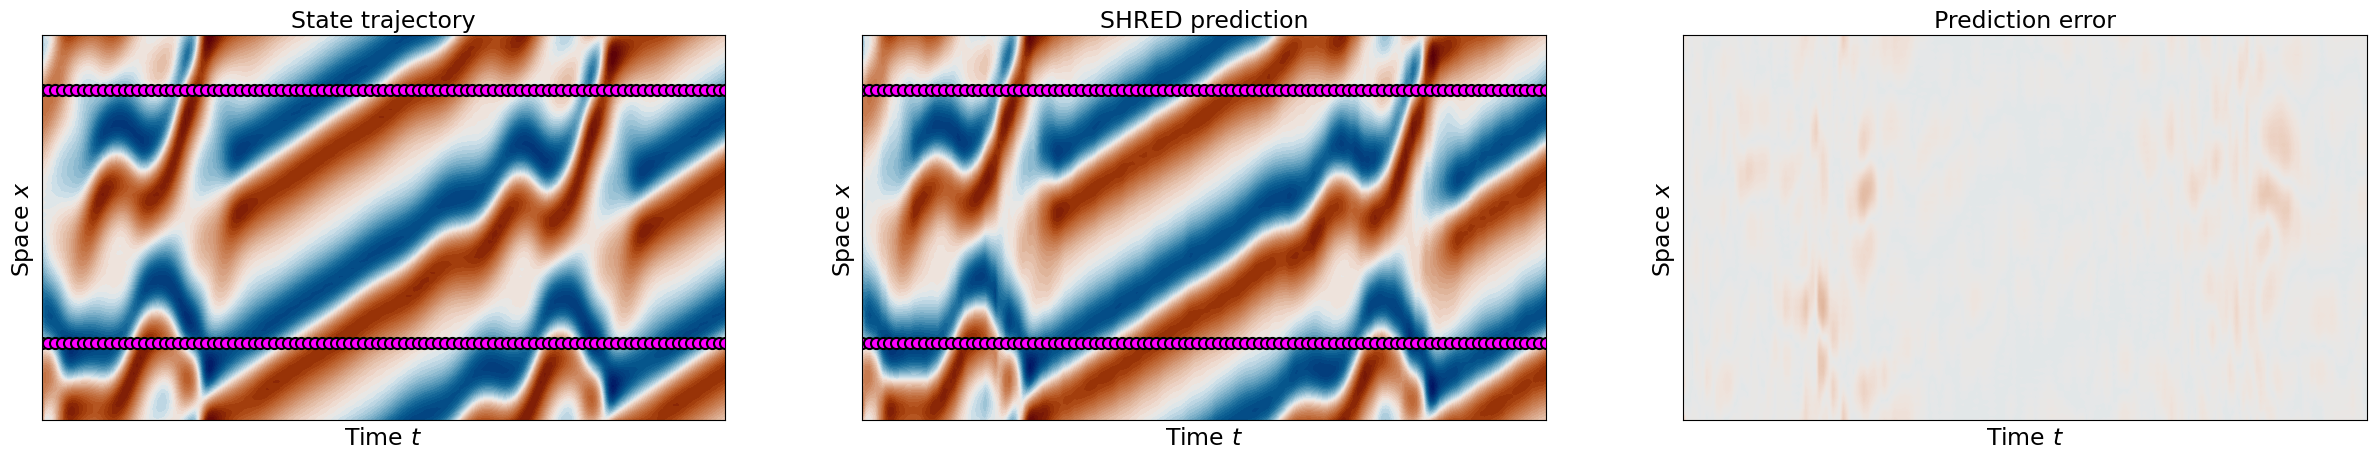
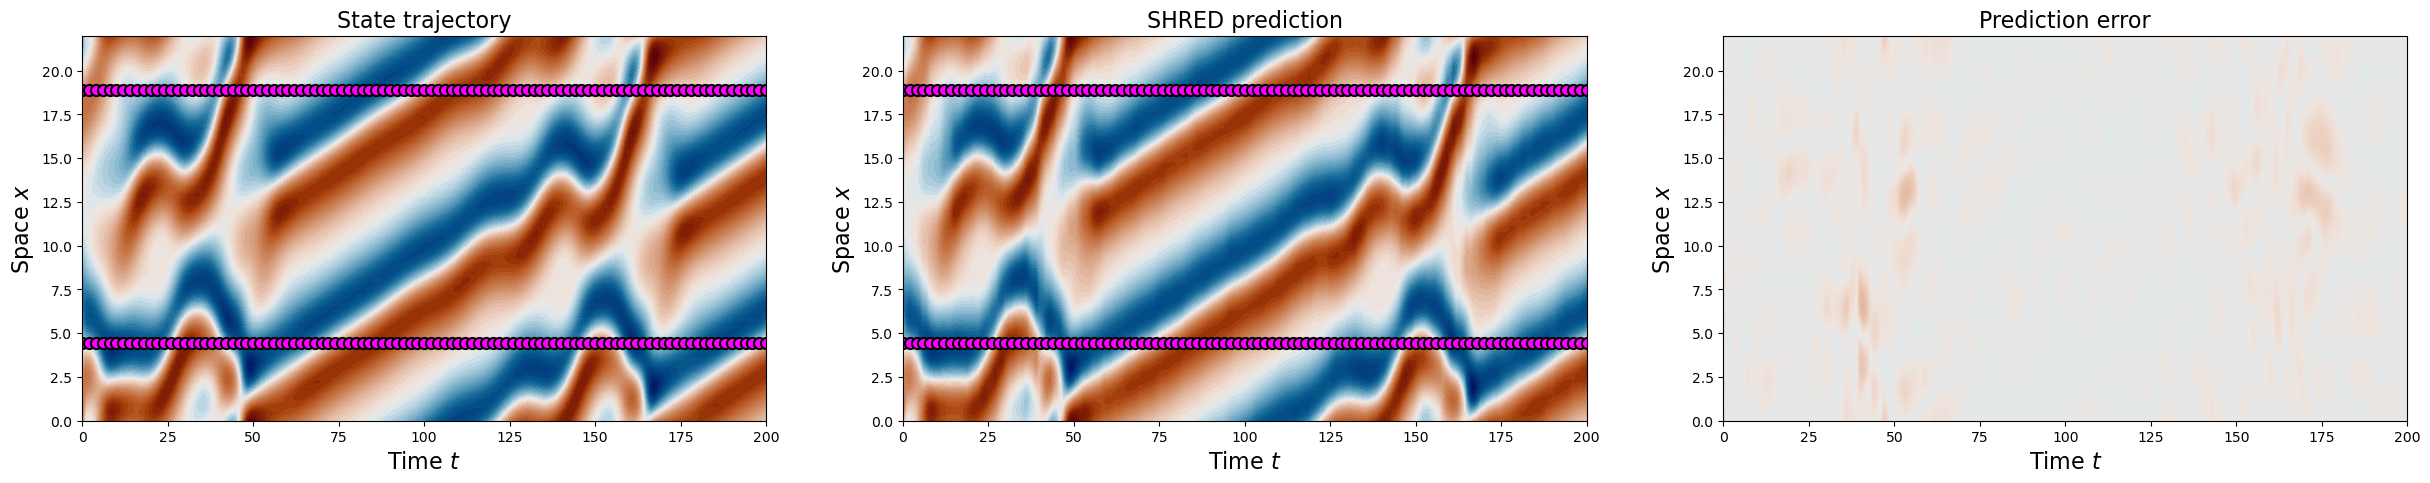
New plotting options

diff --git a/utils/processdata.py b/utils/processdata.py
@@ -46,10 +46,10 @@ def Padding(data, lag):
     return data_out
 
 
-def multiplot(yts, plot, titles = None, figsize = None, vertical = False, axis = False, save = False, name = "multiplot"):
+def multiplot(yts, plot, titles = None, fontsize = None, figsize = None, vertical = False, axis = False, save = False, name = "multiplot"):
     """
     Multi plot of different snapshots
-    Input: list of snapshots, related plot function, list of titles, figure size, save option and save path
+    Input: list of snapshots, related plot function, plot options, save option and save path
     """
     
     plt.figure(figsize = figsize)
@@ -59,7 +59,7 @@ def multiplot(yts, plot, titles = None, figsize = None, vertical = False, axis =
         else:
             plt.subplot(1, len(yts), i+1)
         plot(yts[i])
-        plt.title(titles[i])
+        plt.title(titles[i], fontsize = fontsize)
         if not axis:
             plt.axis('off')
     
@@ -67,10 +67,10 @@ def multiplot(yts, plot, titles = None, figsize = None, vertical = False, axis =
     	plt.savefig(name.replace(".png", "") + ".png", transparent = True, bbox_inches='tight')
 
 
-def trajectory(yt, plot, title = None, figsize = None, axis = False, save = False, name = 'gif'):
+def trajectory(yt, plot, title = None, fontsize = None, figsize = None, axis = False, save = False, name = 'gif'):
     """
     Trajectory gif
-    Input: trajectory with dimension (sequence length, data shape), related plot function for a snapshot, title, figure size, save option and save path
+    Input: trajectory with dimension (sequence length, data shape), related plot function for a snapshot, plot options, save option and save path
     """
 
     arrays = []
@@ -78,7 +78,7 @@ def trajectory(yt, plot, title = None, figsize = None, axis = False, save = Fals
     for i in range(yt.shape[0]):
         plt.figure(figsize = figsize)
         plot(yt[i])
-        plt.title(title)
+        plt.title(title, fontsize = fontsize)
         if not axis:
             plt.axis('off')
         fig = plt.gcf()
@@ -92,10 +92,10 @@ def trajectory(yt, plot, title = None, figsize = None, axis = False, save = Fals
         imageio.mimsave(name.replace(".gif", "") + ".gif", arrays)
         
 
-def trajectories(yts, plot, titles = None, figsize = None, vertical = False, axis = False, save = False, name = 'gif'):
+def trajectories(yts, plot, titles = None, fontsize = None, figsize = None, vertical = False, axis = False, save = False, name = 'gif'):
     """
     Gif of different trajectories
-    Input: list of trajectories with dimensions (sequence length, data shape), plot function for a snapshot, list of titles, figure size, save option and save path
+    Input: list of trajectories with dimensions (sequence length, data shape), plot function for a snapshot, plot options, save option and save path
     """
 
     arrays = []
@@ -109,7 +109,7 @@ def trajectories(yts, plot, titles = None, figsize = None, vertical = False, axi
             else:
                 plt.subplot(1, len(yts), j+1)
             plot(yts[j][i])
-            plt.title(titles[j])
+            plt.title(titles[j], fontsize = fontsize)
             if not axis:
                 plt.axis('off')
 
